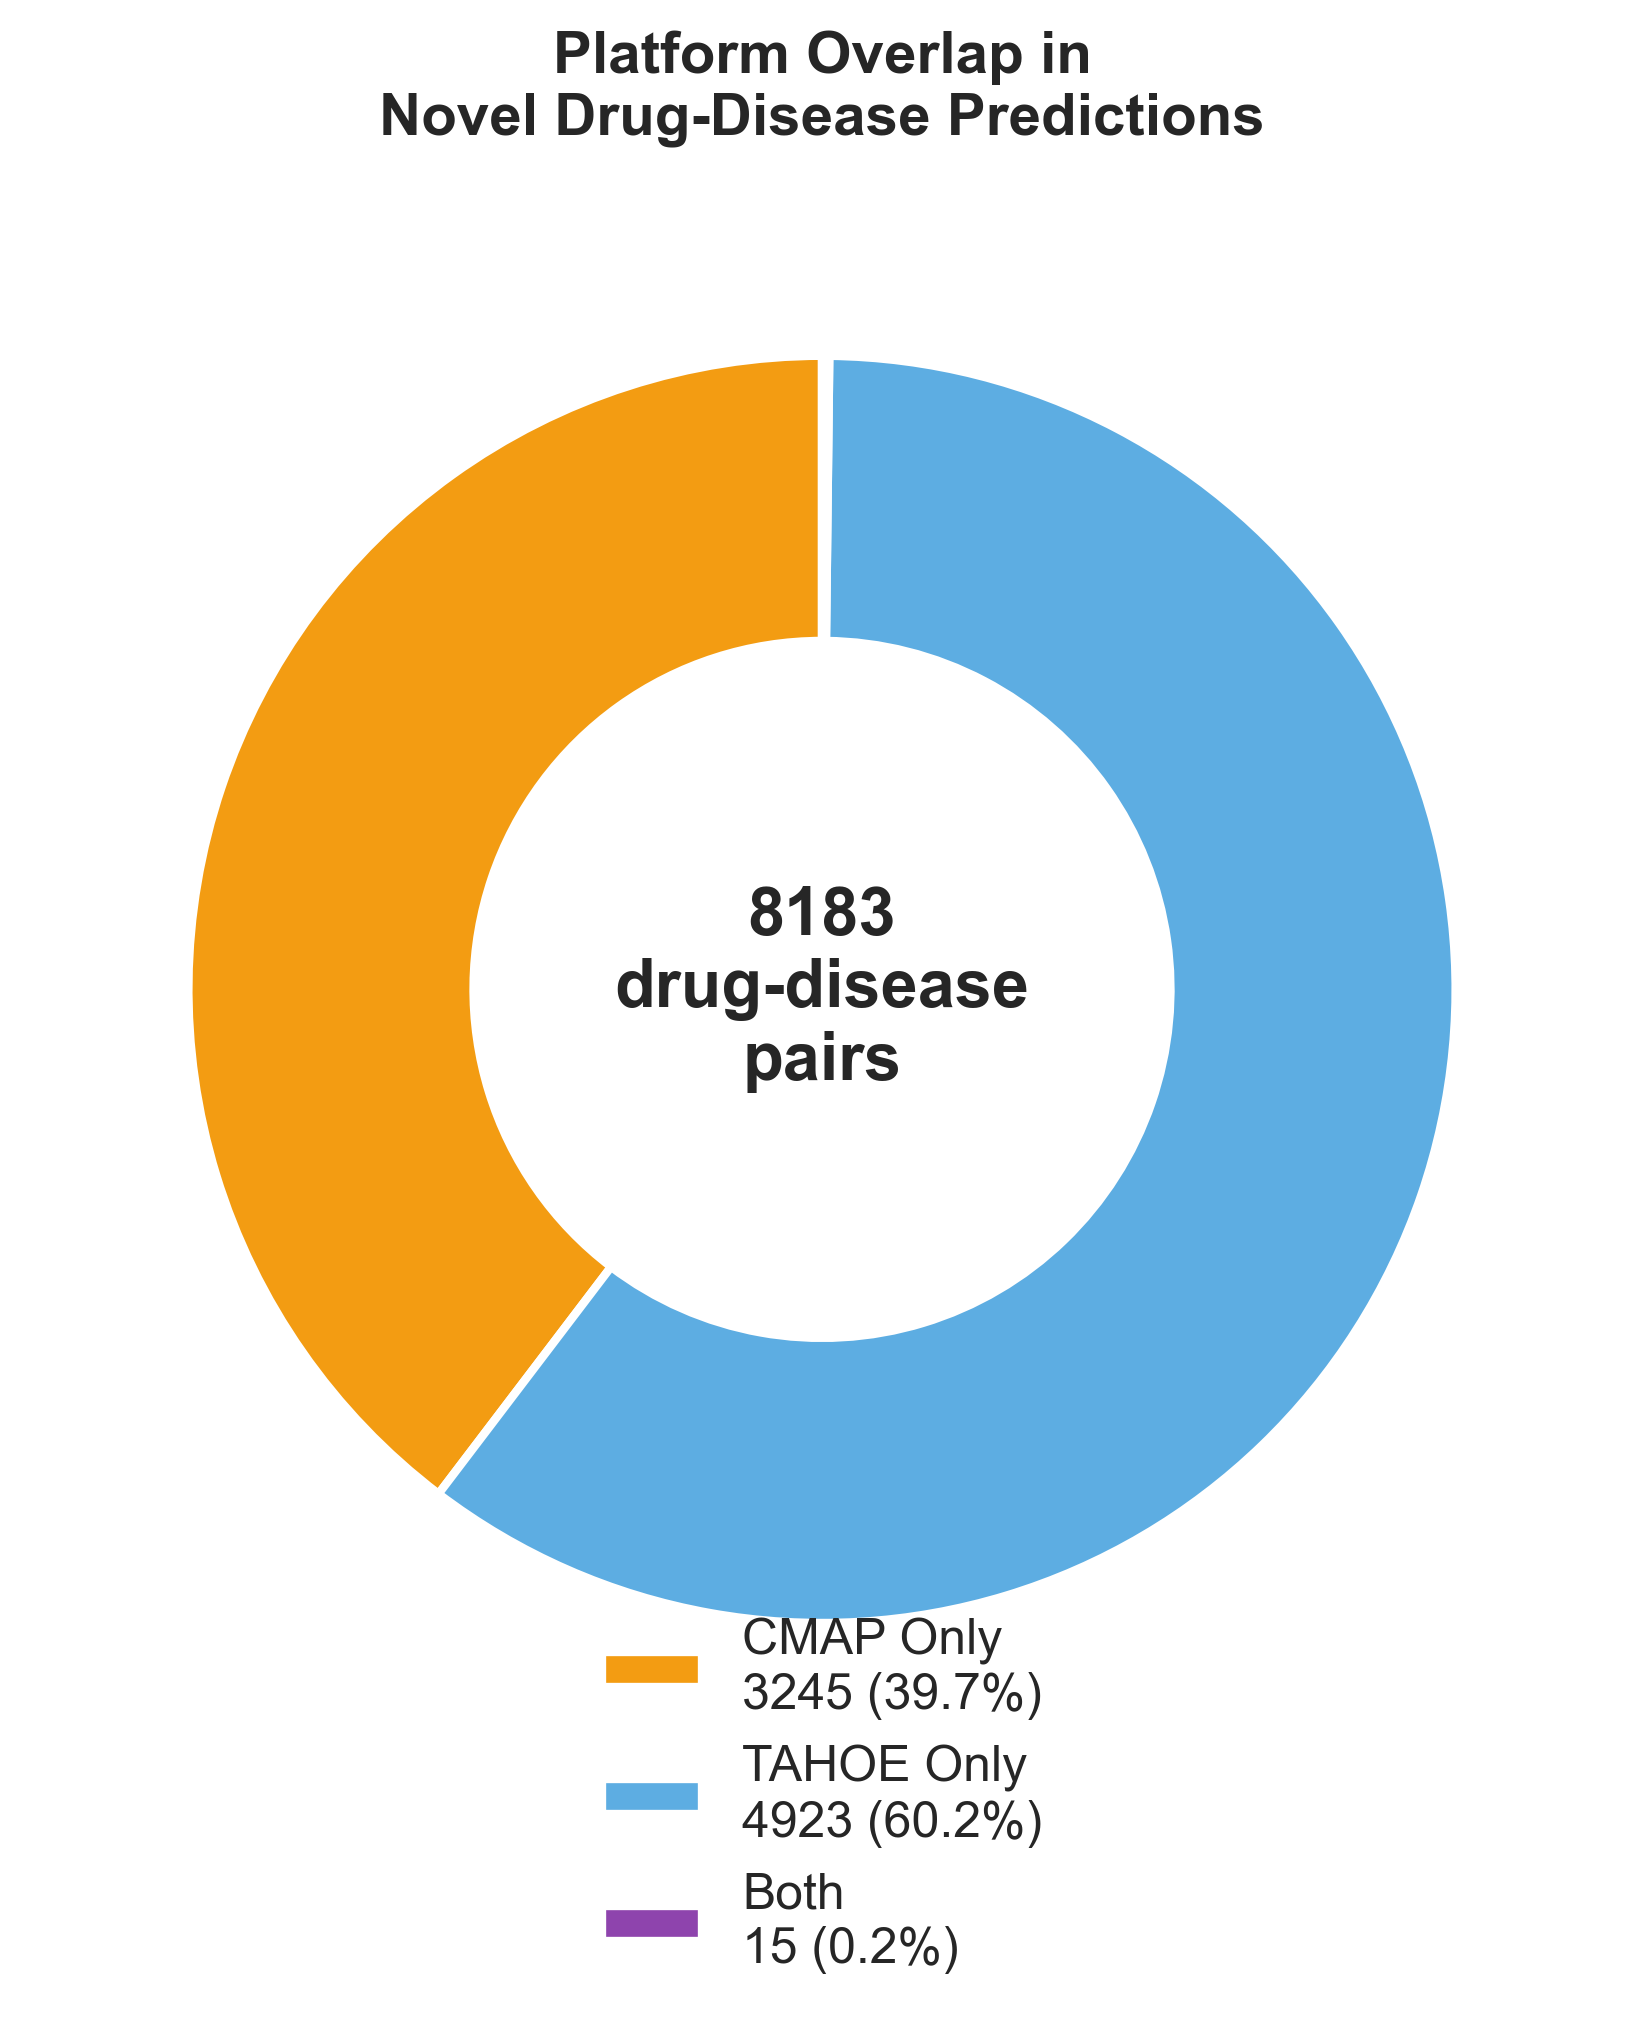
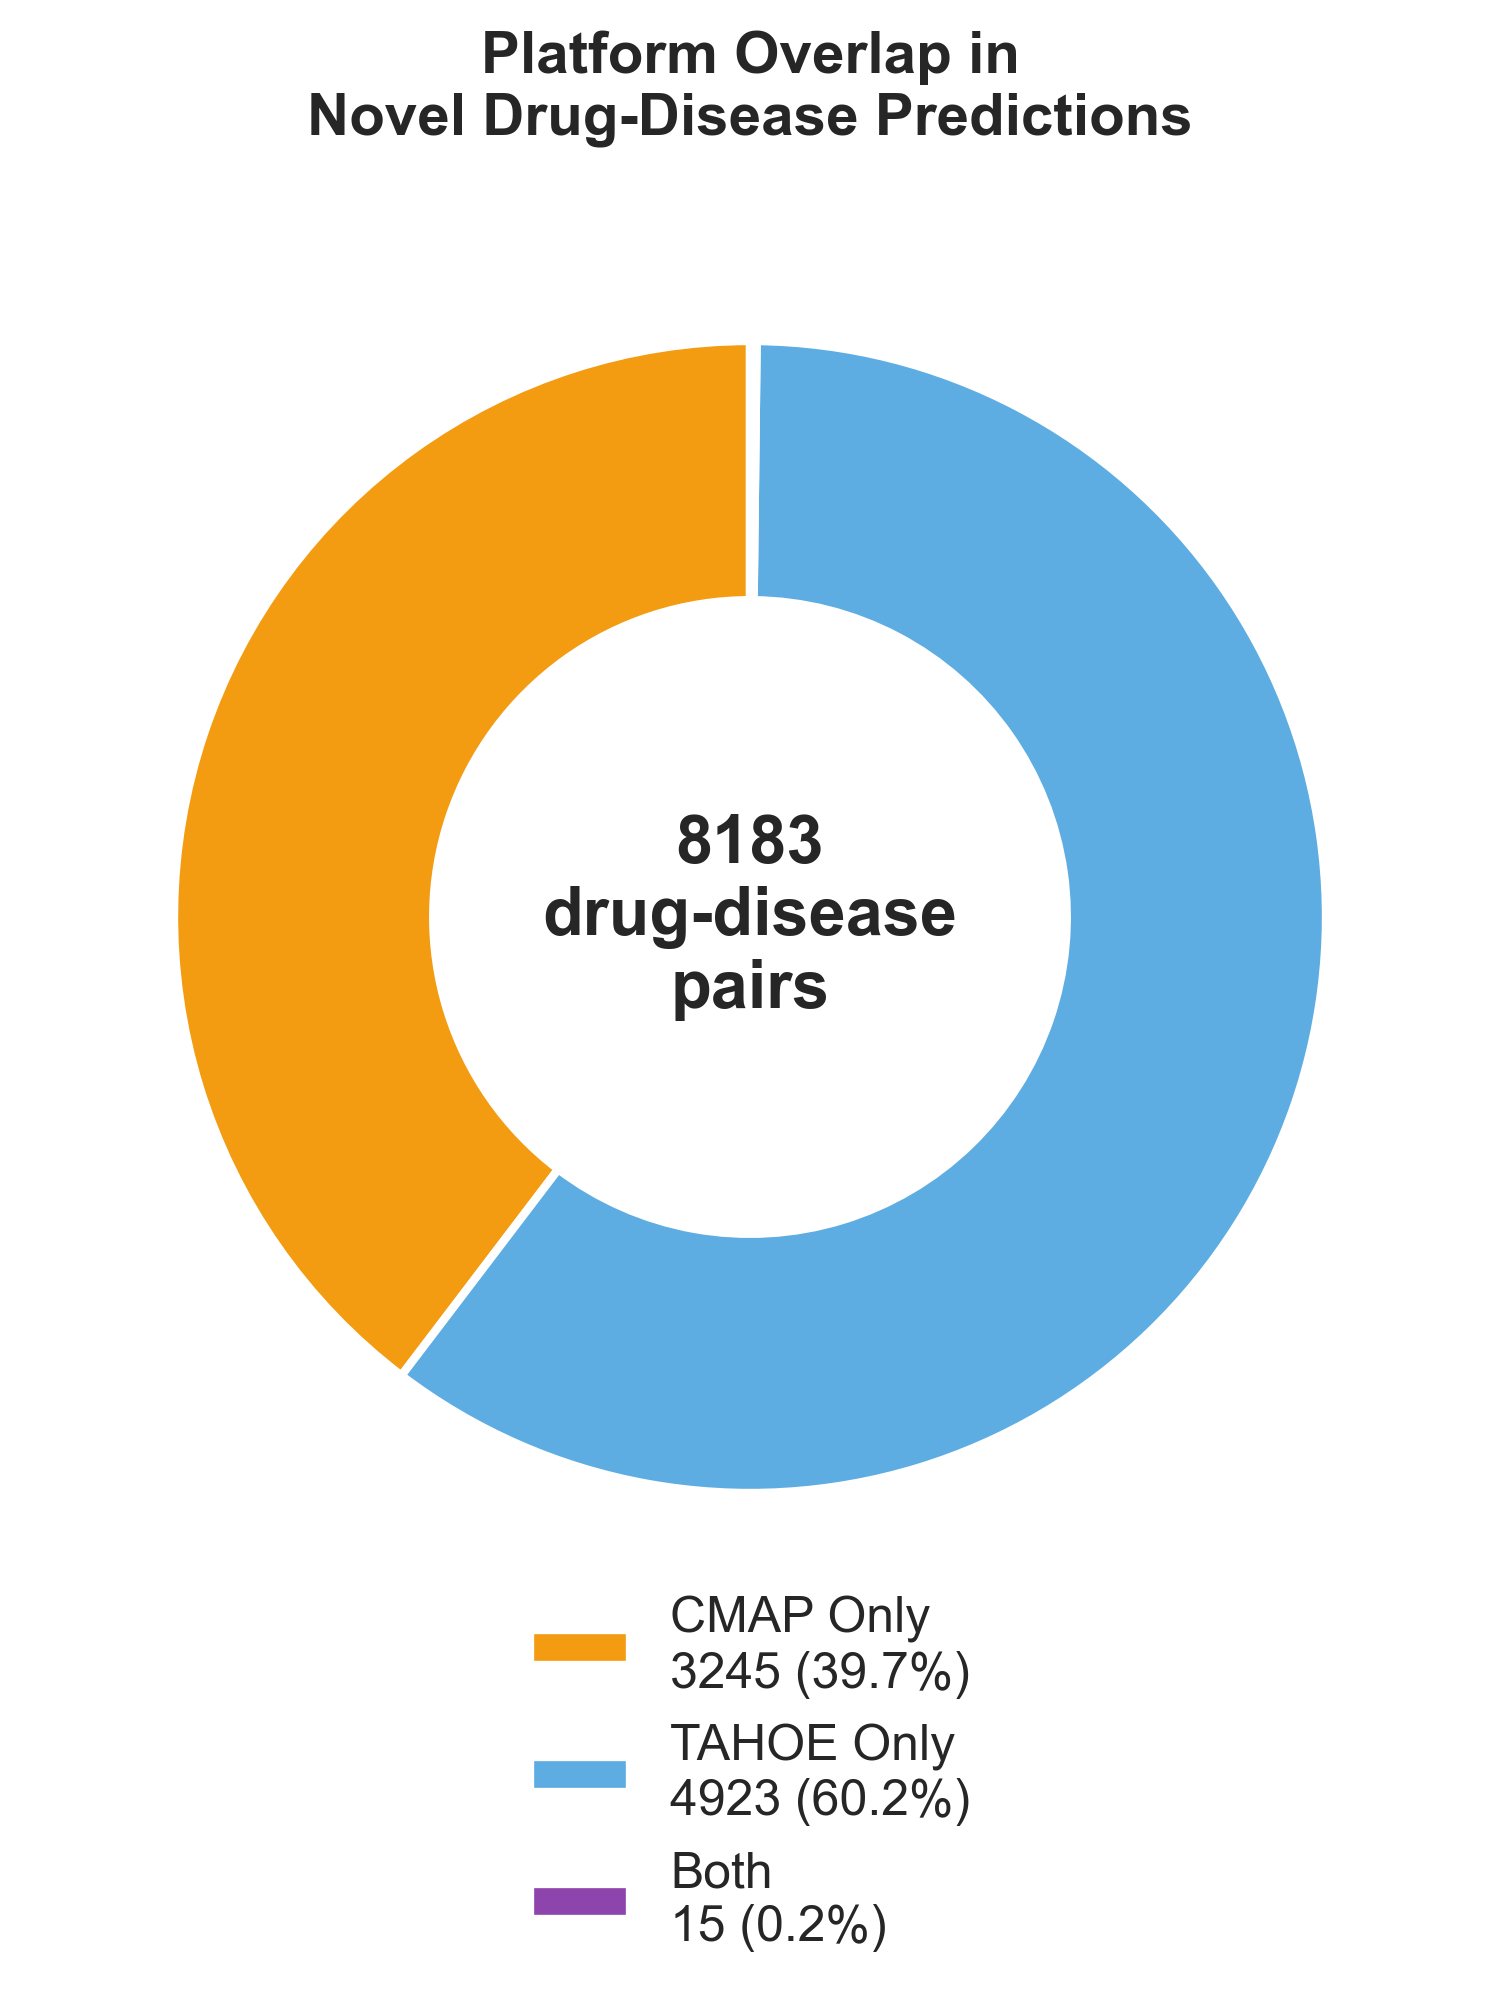
fix: correct known drug counts to unique drug_common_name, update ST1 caption
- Recomputed Known Drugs (DB) using unique drug_common_name per disease_id
  from Open Targets parquet (e.g., RA 2397→240, MS 1885→145)
- Preserved pipeline-derived Available/Recovered counts from git
- Updated Table1_Disease_Summary.csv with corrected counts and recovery rates
- Simplified ST1 caption (removed merge/colitis notes)
- Regenerated all autoimmune case study figures with corrected data

diff --git a/cdrpipe_comparative_analysis/autoimmune/scripts/visualization/generate_case_study_autoimmune.py b/cdrpipe_comparative_analysis/autoimmune/scripts/visualization/generate_case_study_autoimmune.py
@@ -470,12 +470,12 @@ def _make_donut(g_cmap, g_tahoe, g_both, title, filename):
     )
 
     ax.legend(wedges, labels, loc='lower center',
-              bbox_to_anchor=(0.5, -0.15), fontsize=12, frameon=False, ncol=1)
+              bbox_to_anchor=(0.5, -0.25), fontsize=12, frameon=False, ncol=1)
     ax.text(0, 0, f'{g_total}\ndrug-disease\npairs',
             ha='center', va='center', fontsize=16, fontweight='bold')
     ax.set_title(title, fontsize=14, fontweight='bold', pad=15)
 
-    plt.subplots_adjust(bottom=0.22)
+    plt.subplots_adjust(bottom=0.28)
     save(fig, filename)
 
 
